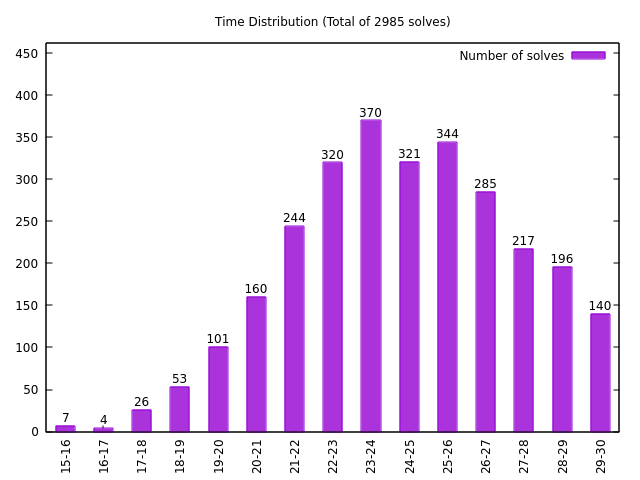
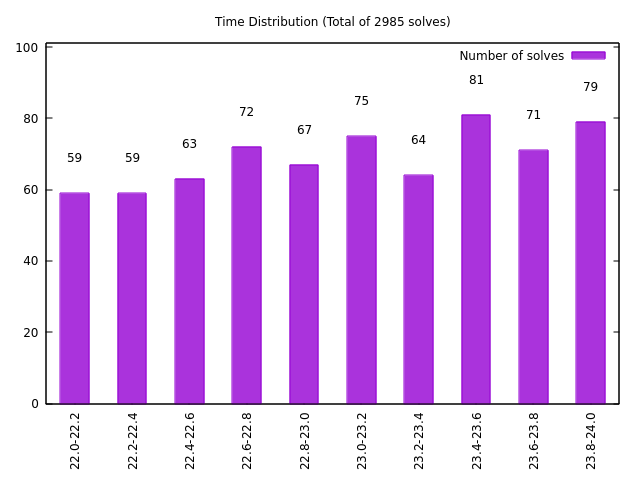
Update readme with appropriate screenshots

diff --git a/basic_stats.rb b/basic_stats.rb
@@ -164,7 +164,7 @@ def build_graph_of_last_few_solve_times(num_solves)
 	Gnuplot.open do |gp|
 		Gnuplot::Plot.new( gp ) do |plot|
 
-			plot.title  "Last #{num_solves}solvetimes (Total of #{@all_times.count} solves)"
+			plot.title  "Last #{num_solves} solvetimes (Total of #{@all_times.count} solves)"
 			plot.xlabel "Time"
 			plot.ylabel "Solvetime"
 
@@ -242,5 +242,5 @@ end
 #build_history_of_averages 100
 #build_graph_of_solve_times 
 #build_graph_of_last_few_solve_times 100
-#build_hist_of_time_distribution(15, 30, 1)
+#build_hist_of_time_distribution(22, 24, 0.2)
 #build_history_of_best_solves 100

diff --git a/readme.md b/readme.md
@@ -2,10 +2,42 @@
 
 > A ruby script to analyse your cstimer output for you and give you insights on your solve times
 
-What kinds of insights?
+### What does this do?
+
+- A graph of all your past solves
+
+	> Yes, all 10k of them! :smile:
+
+	![image](./all-solves-vs-time.png)
+
+- A graph of your last 100 solves
+
+	> Want to know just how that last session went?
+
+	![image](./last-100-solves.png)
+
+- An evolution of your averages over time
+
+	> How did your average of 100 improve / change over time?
+
+	![image](./avg-of-100-vs-time.png)
+
+- Evolution of your best of n-times
+
+	> How fast / slow were you in besting yourself?
+
+	![image](./best-of-100-vs-time.png)
+
+- :fire: :fire: Distribution of your time over any range
+
+	> All my solves between 22 and 24 seconds, with an interval of 0.2 seconds.
+
+	![image](./time-dist.png)
+
+### What kinds of insights?
 
 - [x] Evolution of your averages of 12, 50, 100 and 1000s.
-- [ ] Time distribution over a very specific range of solve times
+- [x] Time distribution over a very specific range of solve times
 	* A distribution of 20-25 second solves with an increment of 0.5 seconds
 	* A distribution of your best solves for each 100 solves and their increment over time
 - [ ] Graphs and histograms for all kinds of stuff! (if the times had been timestamped in csTimer!)
